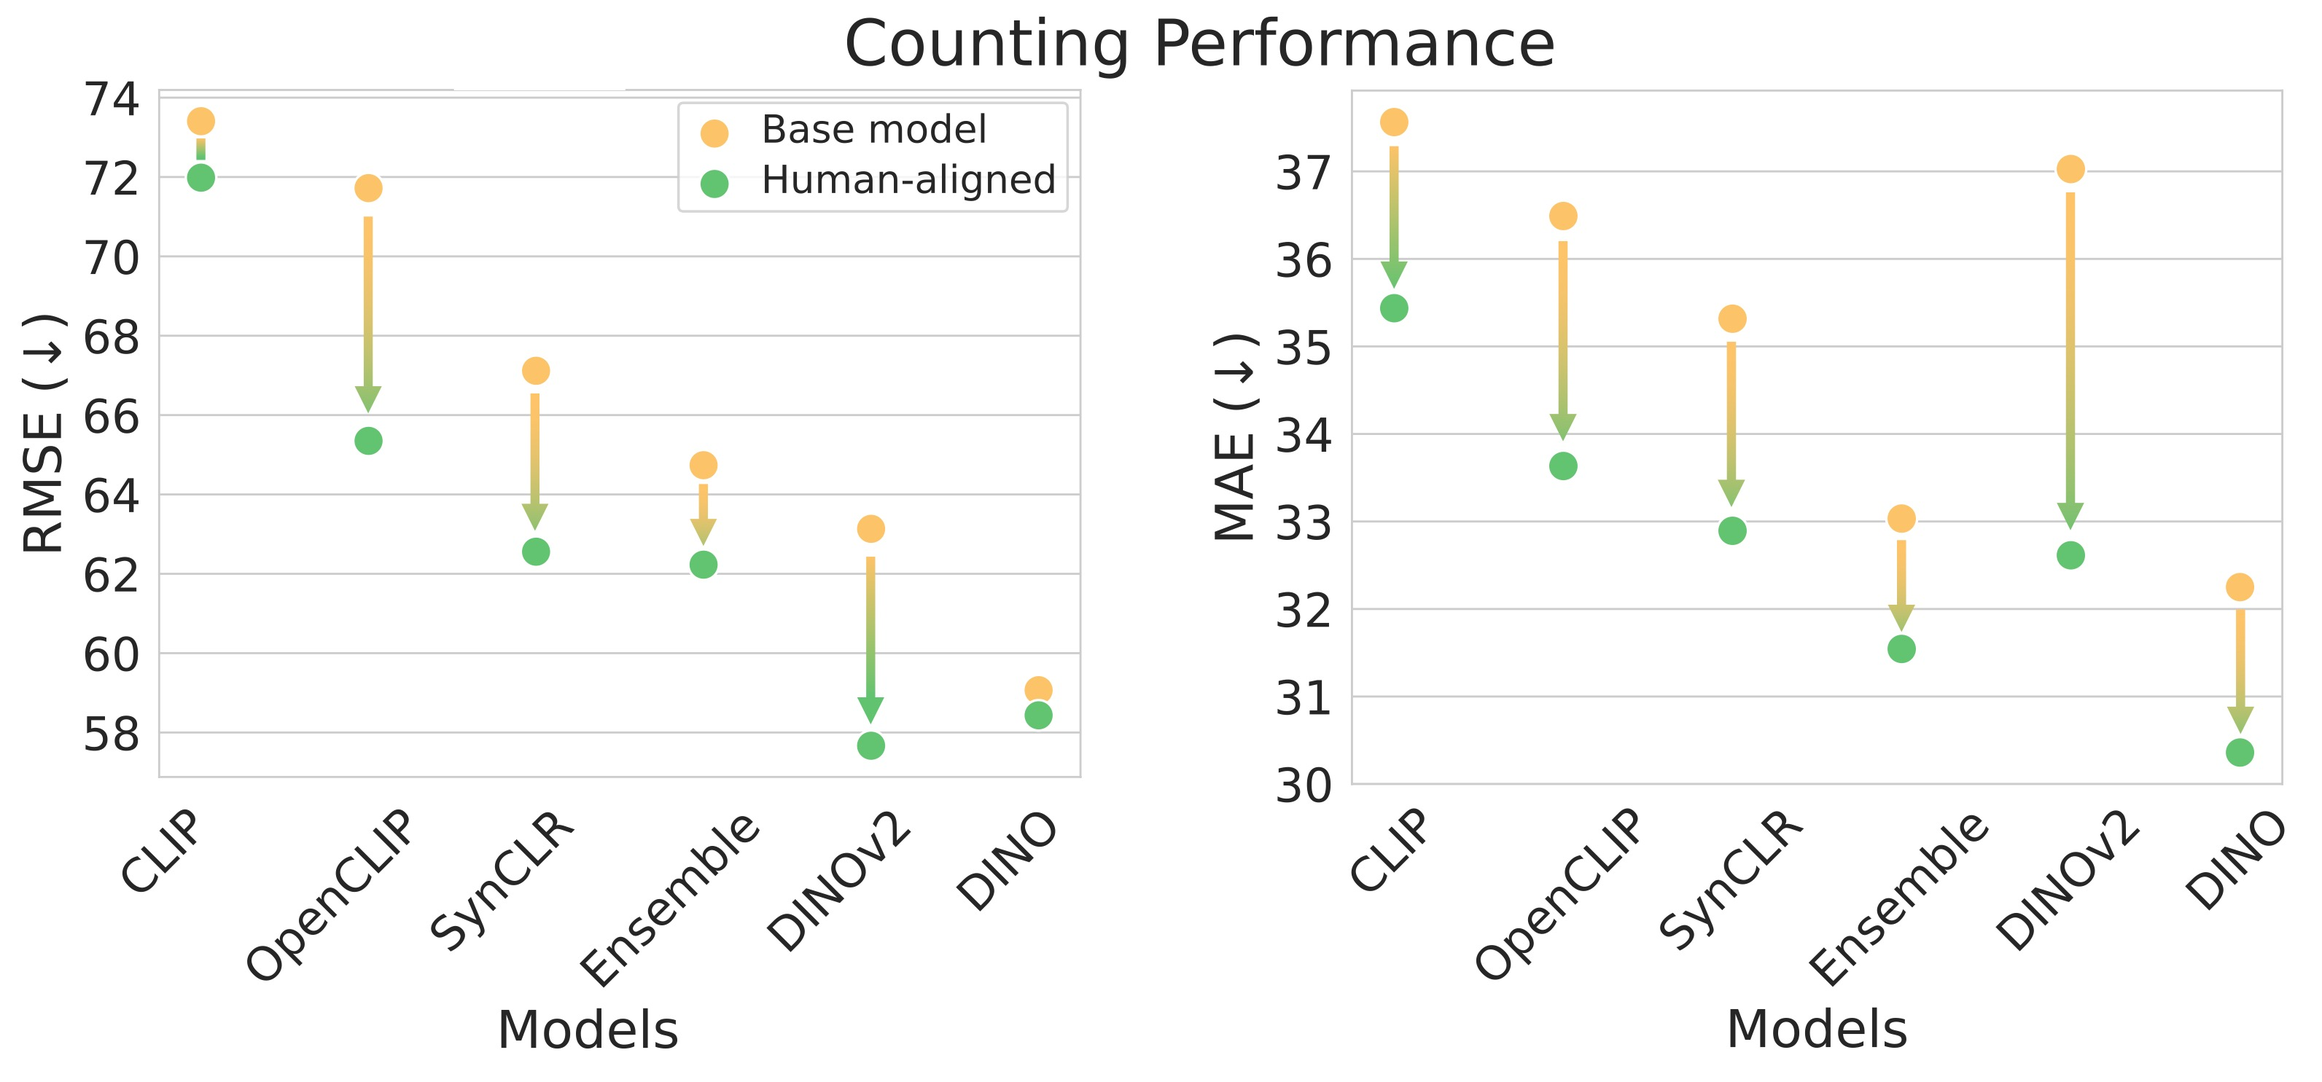
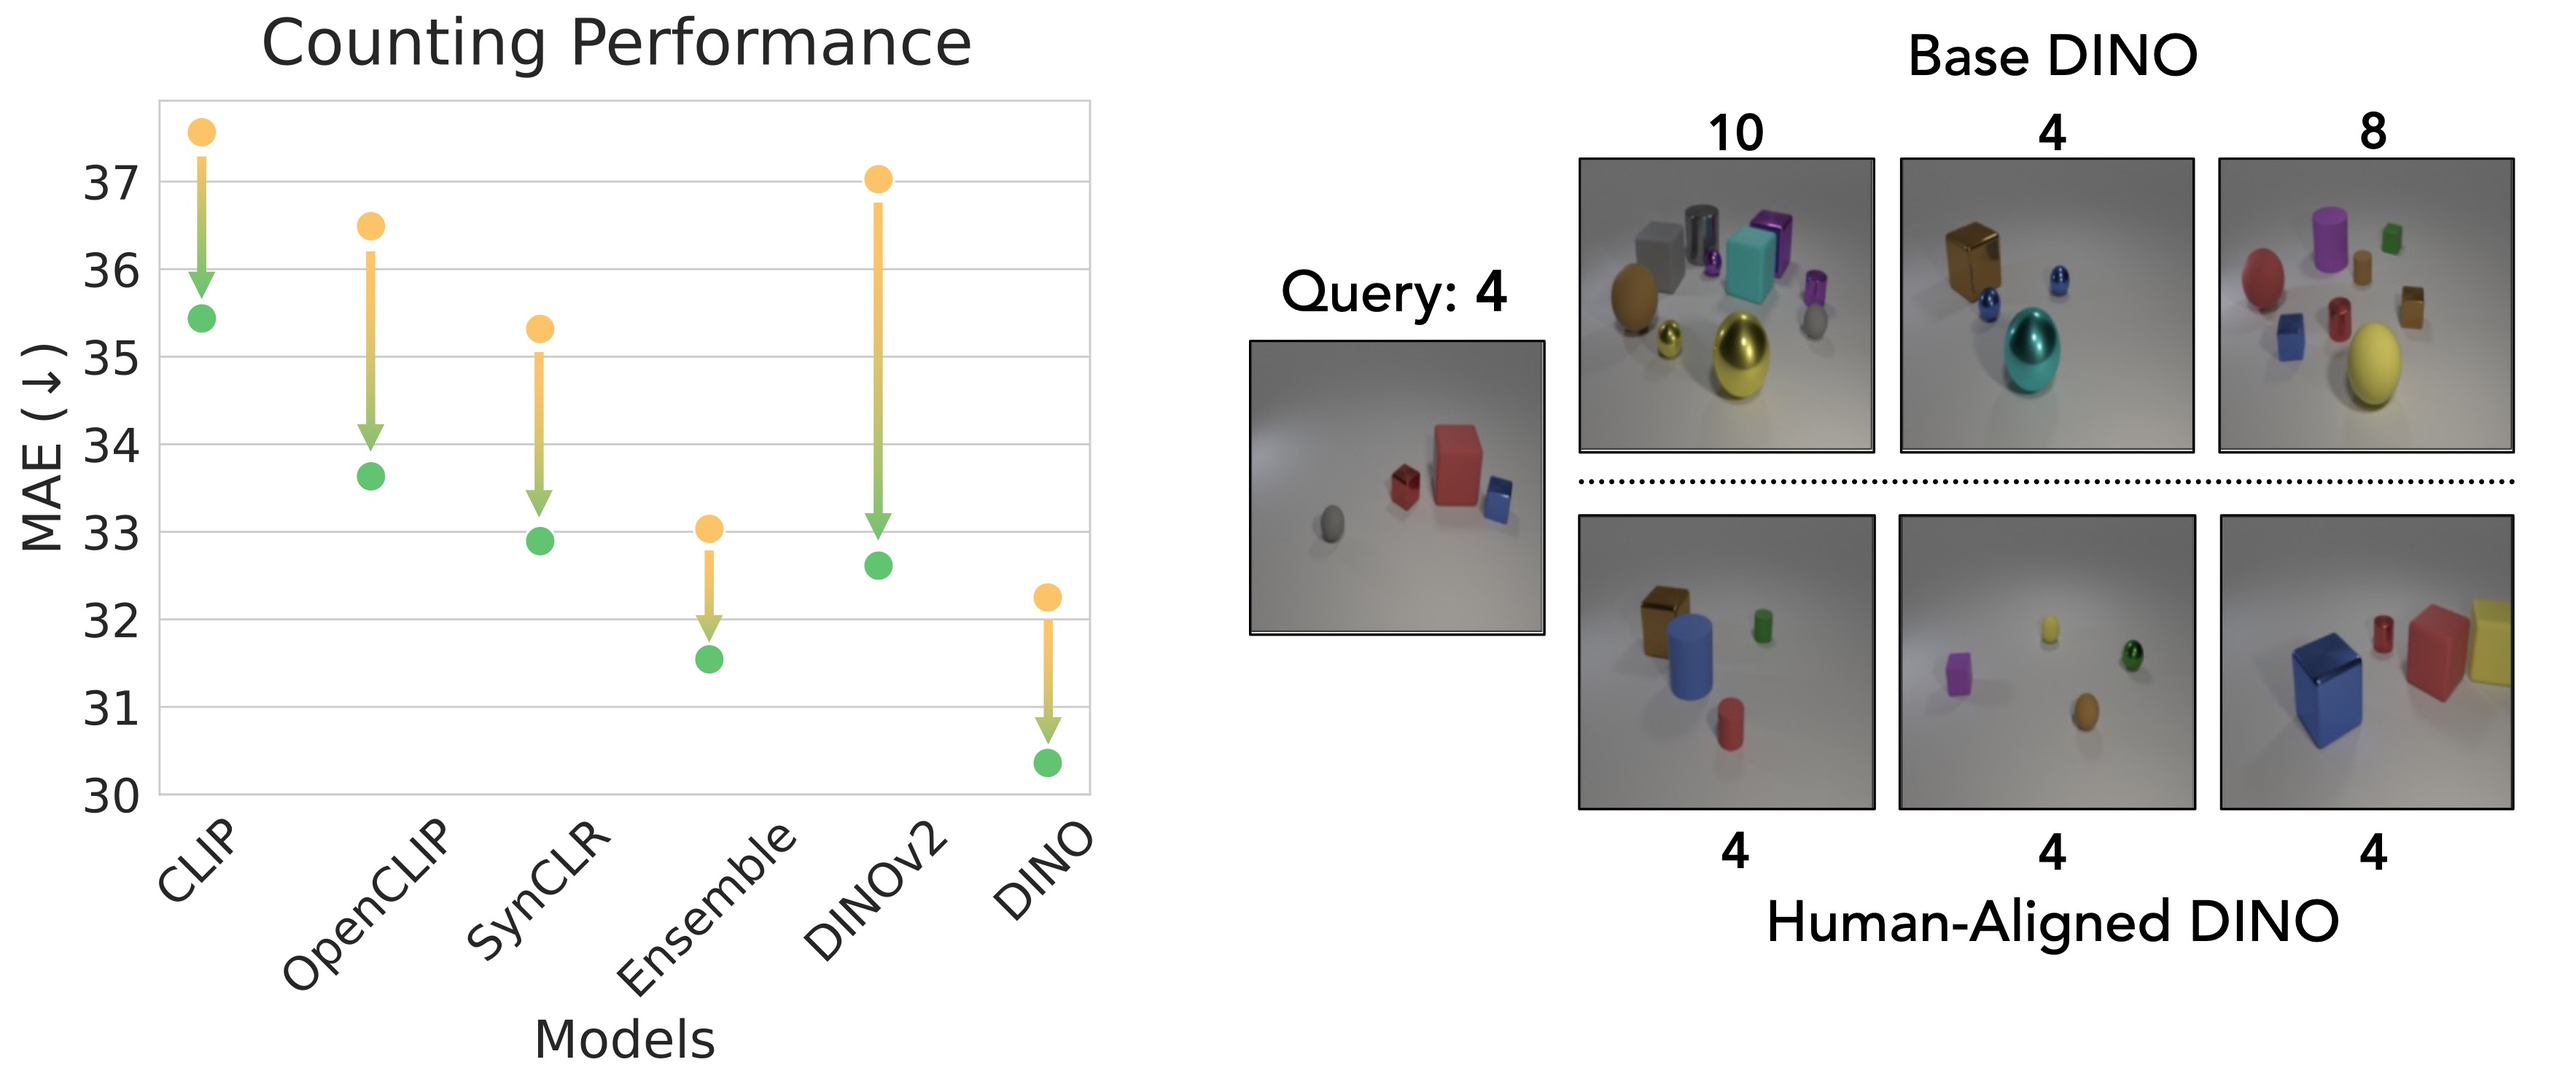
added figure captions

diff --git a/index.html b/index.html
@@ -32,14 +32,14 @@
                 <li><a href="#section4">What are the benefits of perceptual alignment?</a></li>
                 <li><a href="#section5">What are the limitations of perceptual alignment?</a></li>
                 <li><a href="#section6">Implications</a></li>
+                <li><a href="#section7">Models and code</a></li>
             </ul>
         </aside>
 
         <main>
             <h2 id="section1">Introduction</h2>
             <figure class="centered-image">
-              <img src="https://github.com/ssundaram21/ssundaram21.github.io/blob/master/figs/teaser5.jpg?raw=true" alt="Description of the image" class="section-image"  id="teaser">
-              <figcaption>Your image caption here (optional)</figcaption>
+              <img src="figs/teaser7.jpg" alt="Description of the image" class="section-image"  id="teaser">
           </figure>
 
             <p><em>What does it mean for machines to see the world as humans do?</em>
@@ -73,7 +73,7 @@
               such as color, style, pose, and object count.</p>
               <figure class="centered-image">
                 <img src="figs/data_examples.jpg" alt="Description of the image" class="datasets-im" id="datasets-im">
-                <figcaption>Your image caption here (optional)</figcaption>
+                <figcaption>Examples of triplets from different perceptual similarity datasets, and from ImageNet. In each triplet, the more similar image to the reference (middle) is highlighted.</figcaption>
             </figure>
               <p>More precisely: We formalize this dataset as  \(\mathcal{D}=\{(x, \tilde{x_0}, \tilde{x_1}), y\}\) where
               \(x\) is a reference image, and \(\tilde{x_0}\) and \(\tilde{x_1}\) are two variation images. The judgement 
@@ -98,7 +98,7 @@
 
               <figure class="centered-image">
                 <img src="figs/df2_full.jpg" alt="Description of the image" class="datasets-im">
-              <figcaption>Your image caption here (optional)</figcaption>
+              <figcaption>Change in performance from base models to human-aligned models (higher is better).</figcaption>
               </figure>
               
               <p>Interestingly, these retrieval capabilities are also useful for boosting the few-shot performance 
@@ -108,7 +108,7 @@
               
               <figure class="centered-image">
                 <img src="figs/rag.jpg" alt="Description of the image" class="datasets-im">
-              <figcaption>Your image caption here (optional)</figcaption>
+              <figcaption>OpenFlamingo results on classification datasets when augmenting the query with relevant examples, retrieved by base v. human-aligned models.</figcaption>
               </figure>
 
               <p>Another global understanding task we look at is <strong>counting</strong>. Across three different counting datasets,
@@ -116,23 +116,22 @@
               judgements to impact awareness of object count in a scene. </p>
               <figure class="centered-image">
                 <img src="figs/counting_full.jpg" alt="Description of the image" class="datasets-im">
-              <figcaption>Your image caption here (optional)</figcaption>
+              <figcaption>Change in performance from base models to human-aligned models (higher is better).</figcaption>
               </figure>
 
               <p>Finally, let's look at performance on <strong>dense prediction tasks</strong>: semantic segmentation and 
               depth estimation. Once again, these tasks aren't intuitively related to the image similarity objective. Nevertheless, human-aligned DINO/DINOv2 
               outperform the pretrained models in most cases!</p>
+              
               <figure class="centered-image">
                 <img src="figs/seg_results.pdf" alt="Description of the image" class="datasets-im">
-              <figcaption>Your image caption here (optional)</figcaption>
+              <figcaption>Results on semantic segmentation datasets for DINO and DINOv2.</figcaption>
               </figure>
 
               <figure class="centered-image">
                 <img src="figs/depth_results.pdf" alt="Description of the image" class="datasets-im">
-              <figcaption>Your image caption here (optional)</figcaption>
+              <figcaption>Results on a depth estimation dataset for DINO and DINOv2 (more results in our paper).</figcaption>
               </figure>
-              <!--  -- this could be due to the presence of triplets
-            with object-count variation in NIGHTS.  -->
               
             <h2 id="section5">What are the limitations of perceptual alignment?</h2>
             <p>We've shown that human-aligned representations transfer better to a variety of global and dense prediction tasks. Are there 
@@ -144,8 +143,18 @@
             </p>
 
             <h2 id="section6">Implications</h2>
-            <p><strong>Some conclusions/discussion</strong></p>
-            <p>For more details, results, and discussion, check out our paper!</p>
+            <p>In this post we showed that models that are aligned to human perceptual judgements aren't just better at predicting image similarity, they actually 
+            capture knowledge useful to an array of different downstream tasks. Interestingly, training on NIGHTS (mid-level similarity) in particular leads to 
+            improvements, much more so than other perceptual datasets like BAPPS and THINGS.</p>
+
+            <p>We hope that this work opens up lots of interesting questions for future research. We investigate aligned representations through their competency at transfer tasks, 
+              but are there other ways of understanding what changes? Can we align models in a way that alleviates the limitations we found, but preserves the benefits? </p>
+
+            <p><strong>For more details, results, and discussion, check out our paper!</strong></p>
+
+            <h2 id="section7">Models and code</h2>
+            <p>To try out our human-aligned models, otherwise known as the <strong>DreamSim</strong> models, head over to the <a href="https://github.com/ssundaram21/dreamsim">DreamSim repo</a> and/or 
+              install our package with <code>pip install dreamsim</code>. You'll also find a pipeline for fine-tuning on the NIGHTS dataset.</p>
         </main>
     </div>
 </body>
